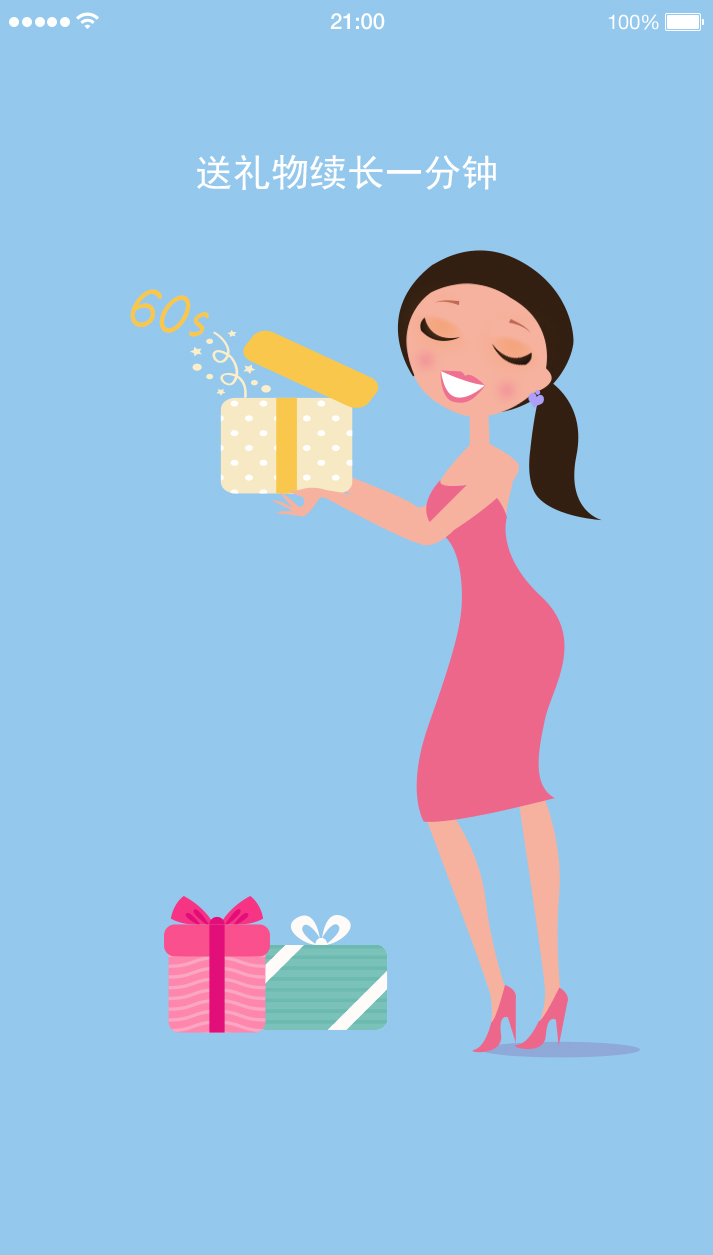
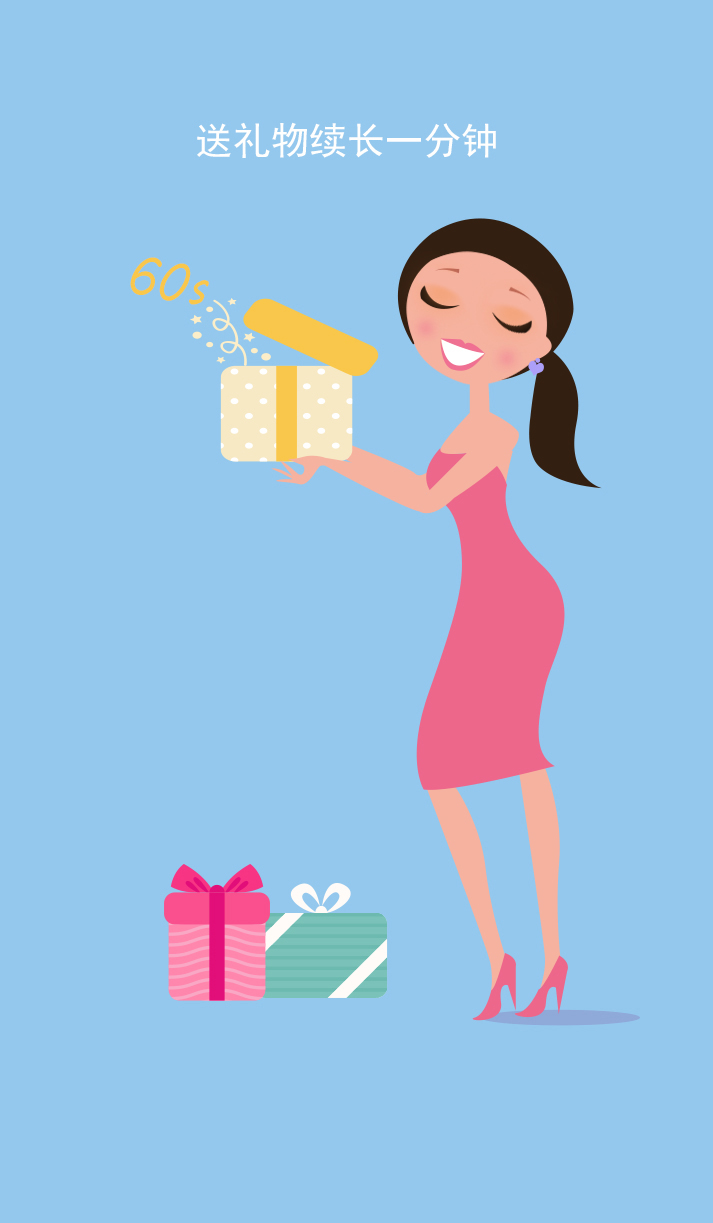
update adpic size

diff --git a/src/components/MainPage.vue b/src/components/MainPage.vue
@@ -117,15 +117,15 @@ p
         height: 100%
         width: 33.33333333%
       .banner-1
-        background: url("../assets/adver1.jpg")
-        background-size: 100% 100%
+        background: url("../assets/adver1.jpg") no-repeat
+        background-size: cover
       .banner-2
-        background: url("../assets/adver2.jpg")
-        background-size: 100% 100%
+        background: url("../assets/adver2.jpg") no-repeat
+        background-size: cover
       .banner-3
         position: relative
-        background: url("../assets/adver3.jpg")
-        background-size: 100% 100%
+        background: url("../assets/adver3.jpg") no-repeat
+        background-size: cover
     .ad-wraper
       height: 100%
     img
